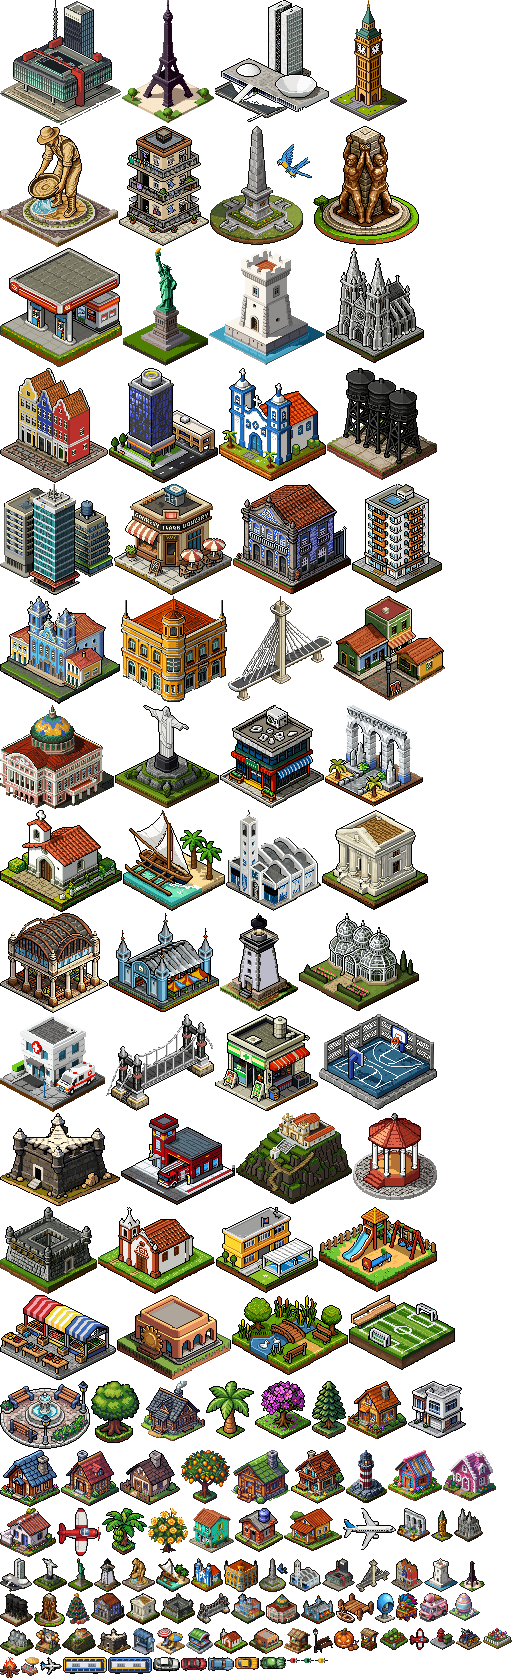
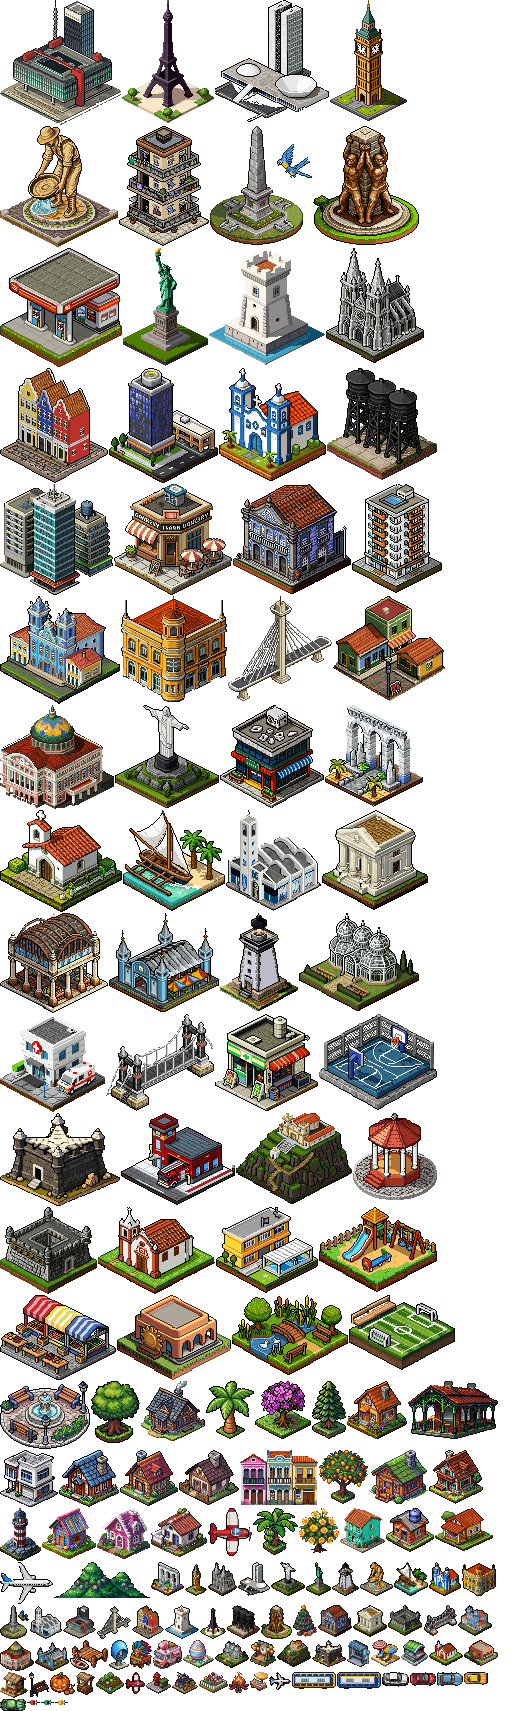
feat: dar identidade visual a três cidades do Firmópolis

diff --git a/static/mundo_cidade_planta.js b/static/mundo_cidade_planta.js
@@ -45,7 +45,9 @@ const CidadePlanta = (() => {
   // as construções que mostram o nome (clique, toque ou Tab); o marco usa o nome do ponto turístico
   const NOMES = { "predios-9": "Igreja", "predios-10": "Hospital", "predios-14": "Mercado Municipal", "predios-13": "Bombeiros",
     "lazer-1": "Campo de Futebol", "lazer-4": "Coreto", "lazer-3": "Lago da Praça", "praca-1": "Praça da Fonte",
-    "lazer-5": "Feira Livre", "praia-3": "Farol" };
+    "lazer-5": "Feira Livre", "praia-3": "Farol", "cidade-recife": "Casario da Orla",
+    "cidade-manaus": "Mercado Adolpho Lisboa", "cidade-bh-serra-curral": "Serra do Curral" };
+  const ARTE_CIDADE = { recife: "cidade-recife", manaus: "cidade-manaus", "belo-horizonte": "cidade-bh-serra-curral" };
   // nomes de rua de mentira, para as placas das esquinas (a partir de 2x)
   const RUAS = ["R. das Flores", "R. do Sol", "Av. Central", "R. dos Ipês", "R. da Matriz", "R. Nova", "Av. das Palmeiras",
     "R. do Comércio", "R. da Paz", "R. das Acácias", "R. do Rosário", "Av. da Saudade", "R. do Mercado", "R. da Esperança",
@@ -314,6 +316,34 @@ const CidadePlanta = (() => {
     const nomes = embaralhar(RUAS.slice()), nomeRua = { v: {}, h: {} };   // o nome de cada rua do meio, para as placas
     ruas.v.forEach((x, i) => { nomeRua.v[x] = orla && x === v1 ? "Av. Beira-Mar" : nomes[i % nomes.length]; });
     ruas.h.forEach((y, i) => { nomeRua.h[y] = nomes[(i + ruas.v.length) % nomes.length]; });
+
+    // a arte própria de Recife, Manaus e Belo Horizonte ocupa um lote já sorteado, com a caixa do desenho dentro da
+    // vaga e da cidade; sem a arte no atlas, o desenho genérico da base continua (sem outra chamada)
+    const arte = ARTE_CIDADE[id];
+    if (arte) {
+      const predios = pecas.filter(s => /^predios-/.test(s.peca) && s.zona === "centro");
+      const largo = (s, e = 64, baixo = H - 10) => s.x >= e && s.x <= W - e && s.y >= 70 && s.y <= baixo;
+      let alvo = null;
+      if (id === "recife") {
+        // o casario herda o lote largo do Hospital ilustrativo (predios-10), o único seguro junto à orla nesta semente;
+        // não há casa genérica com a caixa inteira num lote da orla
+        alvo = predios.filter(s => s.r[2] <= v1 - E / 2 && largo(s)).sort((a, b) => b.x - a.x)[0]
+          || predios.filter(s => largo(s)).sort((a, b) => b.x - a.x)[0];
+      } else if (id === "manaus") {
+        // o próprio Mercado Municipal (predios-14) vira o Adolpho Lisboa, no lote visível e acima dos controles
+        alvo = predios.find(s => s.peca === "predios-14" && s.x >= 48 && s.x <= W - 48 && s.y >= 70 && s.y <= H + 20)
+          || predios.filter(s => !/^predios-(8|9|10|13|14)$/.test(s.peca) && s.x >= 48 && s.x <= W - 48
+            && s.y >= 70 && s.y <= H + 20).sort((a, b) => Math.abs(a.x - W / 2) - Math.abs(b.x - W / 2))[0];
+      } else {
+        // a serra usa o lote largo do predios-8, no alto e sem prédio na frente; a arte do atlas é reduzida a 96x36
+        alvo = predios.find(s => s.peca === "predios-8")
+          || predios.filter(s => largo(s, 48)).sort((a, b) => a.y - b.y)[0];
+      }
+      if (alvo) {
+        alvo.base = alvo.peca; alvo.peca = arte;
+        if (NOMES[arte] && !notaveis.includes(alvo)) notaveis.push(alvo);
+      }
+    }
 
     const cruzamentos = [[v0, h0], [v1, h0], [v0, h1], [v1, h1]];   // os quatro do meio, os únicos com carros nas duas ruas
     return { W, H, ruas, quadras, centro, casa, praca, sorvete, pecas, arranjo, pisos, cercas, notaveis, orla, porte, regiao,

diff --git a/test_mundo_navegacao.js b/test_mundo_navegacao.js
@@ -259,7 +259,7 @@ async function principal() {
     assert.ok(casas.length >= 10 && p.cercas.length >= casas.length, `${id}: ${casas.length} casas`);
     for (const c of p.cercas) assert.ok(c.tipo === "sebe" || c.tipo === "cerca", id);
     const MOBILIA = /^(banca-1|ponto-onibus-1|banco-poste-1|carrinho-1|rua-[123])$/;
-    const CONHECIDA = /^(predios-([1-9]|1[0-4])|casa-[1-6]|chale-[1-8]|arvore-[1-7]|canteiro-[12]|lazer-[1-6]|praia-[1-4]|praca-1|rua-4)$/;
+    const CONHECIDA = /^(predios-([1-9]|1[0-4])|casa-[1-6]|chale-[1-8]|arvore-[1-7]|canteiro-[12]|lazer-[1-6]|praia-[1-4]|praca-1|rua-4|cidade-(recife|manaus|bh-serra-curral))$/;
     assert.ok(itens.every(s => CONHECIDA.test(s.peca) || MOBILIA.test(s.peca)), `${id}: peça desconhecida`);
     assert.ok(de(MOBILIA).filter(naCaixa).length >= (cc.litoral ? 1 : 2), `${id}: mobiliário à vista`);
     predios[id] = de(/^predios-/).filter(naCaixa).length; totais[id] = de(/^predios-/).length;
@@ -323,6 +323,26 @@ async function principal() {
       const cruzes = [...new Set(p.cruzamentos.map(([x, y]) => (c.eixo === "h" ? x : y)))];
       assert.ok(cruzes.every(k => Math.abs(c.s - k) >= CP.E / 2 + 16), `${id}: carro começa no cruzamento ${c.s}`);
     }
+  }
+  // a arte própria de Recife, Manaus e Belo Horizonte ocupa um lote já sorteado, com a caixa do desenho dentro da
+  // vaga e da cidade; as outras cidades não mudam
+  const TAM_CIDADE = { "cidade-recife": [78, 55], "cidade-manaus": [90, 58], "cidade-bh-serra-curral": [96, 36] };
+  for (const [cid, arte] of [["recife", "cidade-recife"], ["manaus", "cidade-manaus"], ["belo-horizonte", "cidade-bh-serra-curral"]]) {
+    const pp = plantaDe(cid), s = pp.pecas.find(x => x.peca === arte), [aw, ah] = TAM_CIDADE[arte];
+    assert.ok(s && /^(predios-|casa-|chale-)/.test(s.base), `${cid}: ${arte} num lote de construção`);
+    assert.ok(pp.notaveis.includes(s), `${cid}: ${arte} nomeável`);
+    const box = [s.x - aw / 2, s.y - ah, s.x + aw / 2, s.y];
+    assert.ok(box[0] >= 0 && box[2] <= pp.W && box[1] >= 0 && box[3] <= pp.H + 20, `${cid}: caixa na cidade`);
+    assert.ok(s.r[0] <= box[0] && box[2] <= s.r[2] && s.r[1] <= box[1] && box[3] <= s.r[3], `${cid}: caixa dentro do lote`);
+    if (cid === "recife") {
+      assert.equal(s.base, "predios-10", "o casario ocupa o lote do Hospital ilustrativo (não há casa segura na orla)");
+      assert.ok(s.r[2] <= pp.orla.x, "recife: casario antes da orla");
+    }
+    if (cid === "manaus") assert.equal(s.base, "predios-14", "o Mercado Municipal vira o Adolpho Lisboa");
+    if (cid === "belo-horizonte") assert.equal(s.base, "predios-8", "a serra usa o lote largo do predios-8");
+  }
+  for (const cid of ["sao-paulo", "curitiba", "mateus-leme"]) {
+    assert.ok(!plantaDe(cid).pecas.some(x => x.base), `${cid}: sem arte de cidade`);
   }
   // o porte: a cidade pequena tem menos prédios (à vista e no todo) que as metrópoles; Mateus Leme é do interior, com a
   // Matriz e a praça (o Rio, com a praia num lado, mostra menos quadras a 1x: lá vale o todo)

diff --git a/static/mundo.html b/static/mundo.html
@@ -6,7 +6,7 @@
   <meta name="robots" content="noindex, nofollow">
   <meta name="referrer" content="no-referrer">
   <title>Mundo dos escritórios</title>
-  <link rel="stylesheet" href="/visita.css?v=36">
+  <link rel="stylesheet" href="/visita.css?v=37">
 </head>
 <body class="pagina-mundo">
   <main class="mundo">
@@ -40,22 +40,22 @@
       <p class="mundo-mais"><a href="/">Meu escritório</a></p>
     </section>
   </main>
-  <script src="/som.js?v=36"></script>
-  <script src="/ceu.js?v=36"></script>
-  <script src="/clima.js?v=36"></script>
-  <script src="/festas.js?v=36"></script>
-  <script src="/sprites.js?v=36"></script>
-  <script src="/mundo_bairro.js?v=36"></script>
-  <script src="/mundo_mapa_arte.js?v=36"></script>
-  <script src="/mundo_mapa_perto.js?v=36"></script>
-  <script src="/mundo_mapa.js?v=36"></script>
-  <script src="/mundo_globo.js?v=36"></script>
-  <script src="/avatar.js?v=36"></script>
-  <script src="/mundo_cidade_planta.js?v=36"></script>
-  <script src="/mundo_festa.js?v=36"></script>
-  <script src="/mundo_cidade_chao.js?v=36"></script>
-  <script src="/mundo_cidade_letreiro.js?v=36"></script>
-  <script src="/mundo_cidade.js?v=36"></script>
-  <script src="/mundo.js?v=36"></script>
+  <script src="/som.js?v=37"></script>
+  <script src="/ceu.js?v=37"></script>
+  <script src="/clima.js?v=37"></script>
+  <script src="/festas.js?v=37"></script>
+  <script src="/sprites.js?v=37"></script>
+  <script src="/mundo_bairro.js?v=37"></script>
+  <script src="/mundo_mapa_arte.js?v=37"></script>
+  <script src="/mundo_mapa_perto.js?v=37"></script>
+  <script src="/mundo_mapa.js?v=37"></script>
+  <script src="/mundo_globo.js?v=37"></script>
+  <script src="/avatar.js?v=37"></script>
+  <script src="/mundo_cidade_planta.js?v=37"></script>
+  <script src="/mundo_festa.js?v=37"></script>
+  <script src="/mundo_cidade_chao.js?v=37"></script>
+  <script src="/mundo_cidade_letreiro.js?v=37"></script>
+  <script src="/mundo_cidade.js?v=37"></script>
+  <script src="/mundo.js?v=37"></script>
 </body>
 </html>

diff --git a/static/mundo_cidade.js b/static/mundo_cidade.js
@@ -91,8 +91,10 @@ const MundoCidade = (() => {
     const portaPronta = () => ehCasa() && !!recorte(p.casa.peca);   // placa e porta só com o desenho do chalé
     const marco = () => info(id).marco;
     const temMarco = () => typeof marco() === "string" && !!recorte("marco-" + marco());
-    // o desenho de uma peça: a vaga da casa tem o chalé só na casa (fora dela, uma árvore); o centro, o marco
-    const nomeDe = s => s === p.casa ? (portaPronta() ? p.casa.peca : p.casa.arvore) : s === p.centro && temMarco() ? "marco-" + marco() : s.peca;
+    // o desenho de uma peça: a vaga da casa tem o chalé só na casa (fora dela, uma árvore); o centro, o marco; a arte
+    // de cidade só entra com o atlas novo (sem ela, o prédio genérico da base, sem outra chamada)
+    const nomeDe = s => s === p.casa ? (portaPronta() ? p.casa.peca : p.casa.arvore) : s === p.centro && temMarco() ? "marco-" + marco()
+      : s.base && !recorte(s.peca) ? s.base : s.peca;
     function caixaCasa() {   // o chalé e a placa em cima dele: a área da porta
       const [, , w, h] = recorte(p.casa.peca) || [0, 0, 60, 57];
       return [p.casa.x - w / 2, p.casa.y - h - PLACA_H - 1, w, h + PLACA_H + 1];
@@ -109,7 +111,10 @@ const MundoCidade = (() => {
     function montarNotaveis() {
       const l = [];
       if (temMarco()) l.push({ s: p.centro, nome: info(id).marco_nome || "Marco da cidade" });
-      for (const s of p.notaveis) if (s.x > -20 && s.x < W + 20 && s.y > -20 && s.y < H + 70) l.push({ s, nome: CidadePlanta.NOMES[s.peca] });
+      for (const s of p.notaveis) {
+        const nome = s.base && !recorte(s.peca) ? CidadePlanta.NOMES[s.base] : CidadePlanta.NOMES[s.peca];
+        if (nome && s.x > -20 && s.x < W + 20 && s.y > -20 && s.y < H + 70) l.push({ s, nome });
+      }
       notaveis = l.filter(n => recorte(nomeDe(n.s))).map((n, i) => ({ ...n, id: "notavel-" + i, maiusculo: n.nome.toUpperCase(), e: null, k: 0 }));
     }
     function alvoNotavel(n) {

diff --git a/ferramentas/montar_mundo.py b/ferramentas/montar_mundo.py
@@ -588,6 +588,8 @@ GENERICOS = ([f"predios-{i}" for i in range(1, 15)] + [f"chale-{i}" for i in ran
 # as peças das festas, ao lado da fonte da praça: entram quando a arte existe (sem ela, a festa fica só nos enfeites)
 OPCIONAIS = ["festa-arvore-natal", "festa-fogueira", "festa-barraca-junina", "festa-abobora", "festa-ovo-pascoa",
              "festa-carro-alegorico", "festa-palco-anonovo"]
+# a arte de cidade de Recife, Manaus e Belo Horizonte: opcional como as festas, mas no tamanho original (1x)
+ARTES_CIDADE = ["cidade-recife", "cidade-manaus", "cidade-bh-serra-curral"]
 # desenhadas pelo PixelLab grandes demais para a cidade: entram no atlas na metade (o navegador desenha 1:1)
 METADE = {"carro-1", "carro-2", "carro-3", "carro-4", "carro-5", "banca-1", "ponto-onibus-1", "carrinho-1", "banco-poste-1",
           "rua-1", "rua-2", "rua-3", "rua-4", "canteiro-1", "canteiro-2", "praia-1", "praia-2", *OPCIONAIS}
@@ -597,8 +599,10 @@ MANCHAS = {"predios-11": (64, 64, 64)}
 SEM_AGUA = {"praia-4"}
 # em 3/4 (pixel nítido, ver tres_quartos): o coreto, menor que os marcos e maior que uma casa
 TRES_QUARTOS = {"lazer-4"}
+# a serra de BH entra no atlas reduzida por vizinho mais próximo para caber no lote largo (o original fica 128x48 no repo)
+DERIVADAS = {"cidade-bh-serra-curral": (96, 36)}
 # as construções com janelas (acesas à noite): até JANELAS_MAX por peça, só as pequenas e fora da base do desenho
-COM_JANELAS = ("chale-", "casa-", "predios-", "marco-")
+COM_JANELAS = ("chale-", "casa-", "predios-", "marco-", "cidade-recife", "cidade-manaus")
 JANELAS_MAX, JANELA_AREA = 48, 30
 ATLAS_LARGURA = 512
 MINI_MARCO, MINI_AVIAO = 32, 20   # pixels: o lado maior da miniatura do mapa, antes do contorno de 1 px
@@ -848,12 +852,16 @@ def montar_atlas(arte, cidades, saida):
             im = sem_mancha(im, MANCHAS[nome])
         if nome in SEM_AGUA:
             im = sem_agua(im)
-        return metade(im) if nome in METADE else tres_quartos(im) if nome in TRES_QUARTOS else im
+        im = metade(im) if nome in METADE else tres_quartos(im) if nome in TRES_QUARTOS else im
+        return im.resize(DERIVADAS[nome], Image.NEAREST) if nome in DERIVADAS else im
     for nome in GENERICOS:
         if not os.path.exists(os.path.join(arte, nome + ".png")):
             raise FileNotFoundError(f"atlas: falta a arte {nome}.png em {arte}")
         pecas[nome] = abrir(nome)
     for nome in OPCIONAIS:
+        if os.path.exists(os.path.join(arte, nome + ".png")):
+            pecas[nome] = abrir(nome)
+    for nome in ARTES_CIDADE:
         if os.path.exists(os.path.join(arte, nome + ".png")):
             pecas[nome] = abrir(nome)
     pecas.update(desenhados())

diff --git a/test_montar_mundo.py b/test_montar_mundo.py
@@ -38,6 +38,9 @@ DESENHADOS = {"onibus-cima-1": [44, 17], "onibus-cima-2": [44, 17], "bici-1": [1
 # peças de festa que podem faltar na arte: entram no atlas quando existem, na metade como o mobiliário
 OPCIONAIS = {"festa-arvore-natal", "festa-fogueira", "festa-barraca-junina", "festa-abobora", "festa-ovo-pascoa",
              "festa-carro-alegorico", "festa-palco-anonovo"}
+# a arte de cidade (Recife, Manaus e a serra de BH): opcional; a serra entra no atlas reduzida a 96x36 (o original fica 128x48)
+ARTES_CIDADE = {"cidade-recife", "cidade-manaus", "cidade-bh-serra-curral"}
+TAM_CIDADE = {"cidade-recife": (78, 55), "cidade-manaus": (90, 58), "cidade-bh-serra-curral": (96, 36)}
 METADE = ({"carro-1", "carro-2", "carro-3", "carro-4", "carro-5", "banca-1", "ponto-onibus-1", "carrinho-1", "banco-poste-1",
            "rua-1", "rua-2", "rua-3", "rua-4", "canteiro-1", "canteiro-2", "praia-1", "praia-2"} | OPCIONAIS)
 # o porte de cada cidade (pela população da capital) e as capitais de praia (Belém e Macapá ficam no rio)
@@ -309,8 +312,13 @@ class Montagem(unittest.TestCase):
         marcos |= {"marco-" + m for m in MARCOS_FORA}
         self.assertEqual(set(atlas), {"versao", "quadros", "janelas"})
         self.assertIsInstance(atlas["versao"], int)
-        presentes = {n for n in OPCIONAIS if os.path.exists(os.path.join(ARTE, n + ".png"))}
+        presentes = {n for n in OPCIONAIS | ARTES_CIDADE if os.path.exists(os.path.join(ARTE, n + ".png"))}
         self.assertEqual(set(atlas["quadros"]), marcos | GENERICOS | set(DESENHADOS) | presentes | MINIS)
+        for nome in ARTES_CIDADE & presentes:   # a arte de cidade entra no tamanho combinado (a serra, derivada a 96x36)
+            self.assertEqual(atlas["quadros"][nome][2:], list(TAM_CIDADE[nome]), nome)
+        from PIL import Image
+        with Image.open(os.path.join(ARTE, "cidade-bh-serra-curral.png")) as im:
+            self.assertEqual(im.size, (128, 48), "o original da serra fica 128x48 no repo")
         for nome, tam in DESENHADOS.items():
             self.assertEqual(atlas["quadros"][nome][2:], tam, nome)
         self.assertFalse(any(n.startswith("bicho-") for n in atlas["quadros"]), "os bichos ficam fora")

diff --git a/CHANGELOG.md b/CHANGELOG.md
@@ -7,6 +7,7 @@ All notable changes to this project are listed here, newest first. The format fo
 ## Unreleased
 
 ### Added
+- **Real city art for Recife, Manaus and Belo Horizonte:** the map now draws a colonial casario near the shore in Recife (in the illustrative hospital's wide lot, the only safe one by the shore in that seed), the Adolpho Lisboa market in a visible lot in Manaus (replacing the generic municipal market; the hospital stays) and the Serra do Curral in the background of Belo Horizonte (a 96×36 nearest-neighbour atlas piece in the predios-8 lot, with the original kept at 128×48), each with a short label and open windows at night where they apply. The pieces come from the existing atlas, so old atlases keep the generic buildings without an extra request, and the other cities keep their exact layout.
 - **Life and the rhythm of the day:** the front desk (reception) lights up during the floor's business hours and stays discreet outside them, with a short fade in live view and the current state shown immediately on load or floor change; desks in use and the pending-items shortcut stay the same, and nothing changes under reduced motion, a hidden tab or a simulated time.
 - **Neighbourhood with the door in focus:** in the firm's neighbourhood, the enter button and the chalet door get extra emphasis (a pixel arrow, static under reduced motion) and a secondary **Meu escritório** link leads to the normal entry; the visit and invite path stays the same, and none of it appears in TV mode.
 - **Reception on the map:** the front desk now has an amber **Esperando você** shortcut that shows the number of pending items and opens a collapsible list, closed by default, with the same agents and terminals as the widget below the map; each item takes you to the agent or terminal where it is now and opens its card. The shortcut closes with the button or Esc, returns focus to the trigger, and is hidden in TV mode, photo mode and presentation mode; the camera menu hides and restores it per browser, and the Approvals route stays in the menu. No reading never becomes zero: failure and loading have their own text.

diff --git a/CHANGELOG.pt-BR.md b/CHANGELOG.pt-BR.md
@@ -7,6 +7,7 @@ As mudanças que importam neste projeto ficam aqui, da mais nova para a mais ant
 ## Não lançado
 
 ### Adicionado
+- **Arte real de cidade para Recife, Manaus e Belo Horizonte:** o mapa passa a desenhar um casario colonial perto da orla no Recife (no lote largo do hospital ilustrativo, o único seguro junto à orla nesta semente), o mercado Adolpho Lisboa num lote visível em Manaus (no lugar do mercado municipal genérico; o hospital permanece) e a Serra do Curral no fundo de Belo Horizonte (peça derivada de 96×36 por vizinho mais próximo no lote do predios-8, com o original guardado em 128×48), cada um com rótulo curto e janelas acesas à noite quando faz sentido. As peças vêm do atlas existente, então um atlas antigo mantém os prédios genéricos sem outra chamada, e as demais cidades ficam com o mesmo traçado.
 - **Vida e ritmo do dia:** a portaria (a recepção) acende no expediente do andar e fica discreta fora dele, com um fade curto ao vivo e o estado atual imediato ao carregar ou trocar de andar; mesas em uso e o atalho de pendências continuam iguais, e nada muda com movimento reduzido, aba oculta ou horário simulado.
 - **Bairro com a porta em destaque:** no bairro da firma, o botão de entrar e a porta do chalé ganham destaque (uma seta pixelada, estática com movimento reduzido) e um link secundário **Meu escritório** leva à entrada normal; o caminho de visita e convite continua o mesmo, e nada disso aparece no modo TV.
 - **Recepção no mapa:** o balcão ganhou um atalho âmbar **Esperando você** que mostra o número de pendências e abre uma lista recolhível, fechada por padrão, com os mesmos agentes e terminais do widget abaixo do mapa; cada item leva ao agente ou terminal no lugar atual e abre a ficha. O atalho fecha com o botão ou com Esc, devolve o foco ao gatilho e some no modo TV, no modo foto e na apresentação; o menu da câmera esconde e restaura o atalho por navegador, e a rota de Aprovações continua no menu. Sem leitura não vira zero: falha e carregamento têm texto próprio.

diff --git a/arte/pixellab/mundo/PROVENIENCIA-cidades.md b/arte/pixellab/mundo/PROVENIENCIA-cidades.md
@@ -1,0 +1,25 @@
+# Proveniência: sprites de cidades
+
+Arte original gerada pelo PixelLab v2 (`POST /v2/create-image-pixen`, vista lateral, contorno de uma cor,
+sem fundo, semente fixa) em 25/11/2026. Quatro gerações no total (Recife, Manaus descartada, Serra do Curral
+e Manaus v2), sem retry cego. O plano trial cobrou gerações, não créditos: **US$ 0,00 debitados** e 4/4
+gerações do lote consumidas (saldo antes e depois: `credits.usd` 8.03905829095178; `subscription.generations`
+40/40 → 36/40). Nenhuma imagem de referência foi copiada; as formas vieram do relato histórico abaixo.
+
+| Arquivo | Uso | Referências oficiais (forma e história) |
+|---|---|---|
+| `cidade-recife.png` | Casario do Recife Antigo, perto da orla | https://visite.recife.br/bairro-recife-antigo/ |
+| `cidade-manaus.png` | Mercado Municipal Adolpho Lisboa, num lote visível | https://www.gov.br/iphan/pt-br/patrimonio-cultural/patrimonio-material/bens-tombados/conjuntos-urbanos-tombados-cidades-historicas/norte/manaus-am |
+| `cidade-bh-serra-curral.png` | Serra do Curral, no fundo da cidade | https://prefeitura.pbh.gov.br/fundacao-de-parques-e-zoobotanica/informacoes/parques/parque-da-serra-do-curral |
+
+Normalização: recorte no alfa, centralização sem escalar (pixel 1×) e chão removido quando era faixa de rua;
+o alfa ficou binário (0/255). O manifesto completo da rodada, com prompts e folhas de conferência, está em
+`/tmp/firmopolis-cidades-piloto/MANIFESTO.md`.
+
+## Uso no atlas
+
+- Recife: o casario ocupa o lote largo do Hospital ilustrativo (`predios-10`), o único seguro junto à orla nesta
+  semente; não há casa genérica com a caixa inteira num lote da orla. O Hospital genérico não aparece à parte na cena.
+- Manaus: substitui o Mercado Municipal (`predios-14`), que vira o Mercado Adolpho Lisboa; o Hospital permanece.
+- Belo Horizonte: usa o lote largo do `predios-8` (53, 81) e entra no atlas reduzido por vizinho mais próximo a
+  96×36 (o original de 128×48 fica no repositório).
